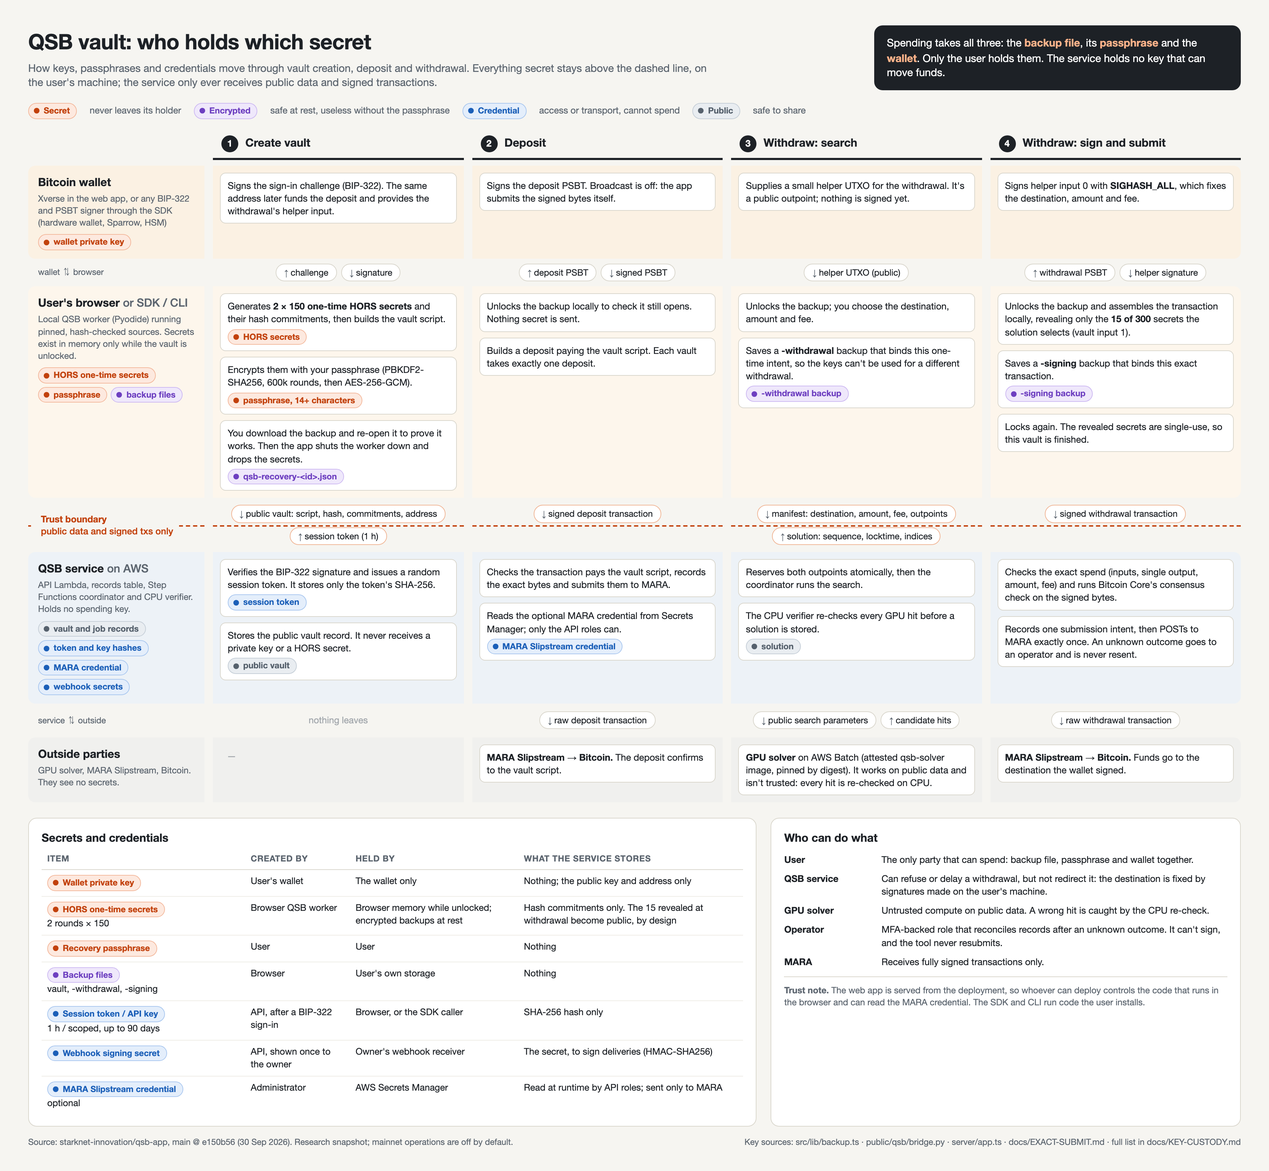
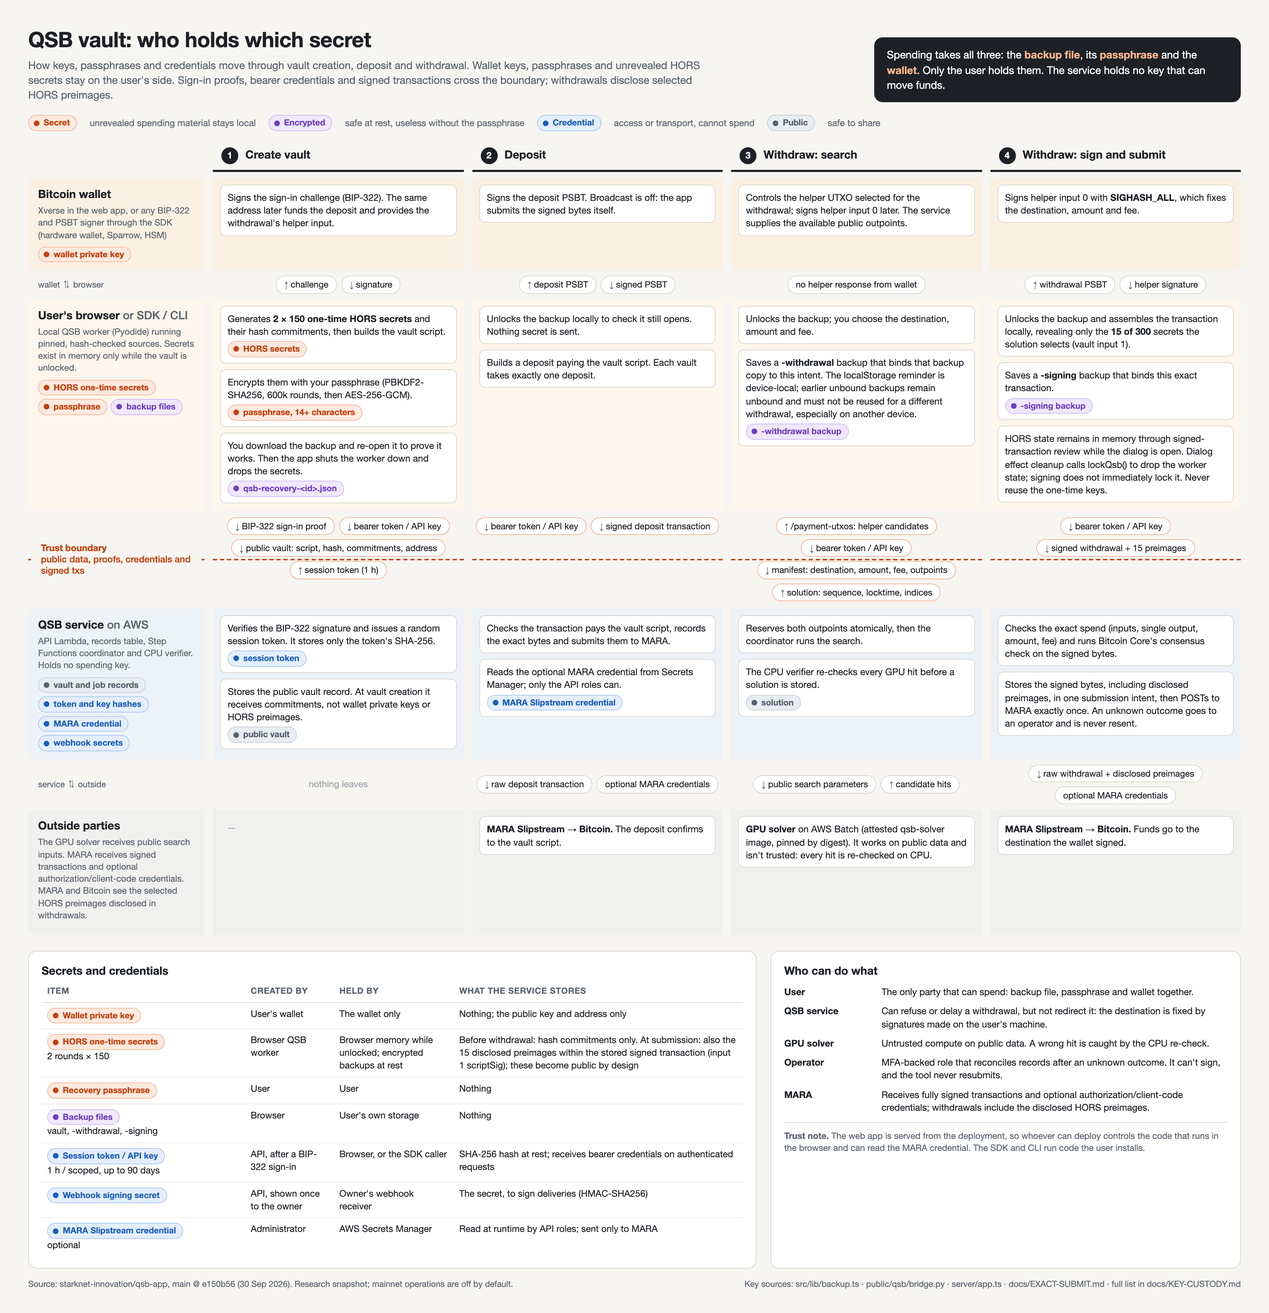
Correct custody boundaries and recovery lifecycle documentation

diff --git a/docs/key-custody.html b/docs/key-custody.html
@@ -128,13 +128,13 @@
 <header>
   <div>
     <h1>QSB vault: who holds which secret</h1>
-    <p class="sub">How keys, passphrases and credentials move through vault creation, deposit and withdrawal. Everything secret stays above the dashed line, on the user's machine; the service only ever receives public data and signed transactions.</p>
+    <p class="sub">How keys, passphrases and credentials move through vault creation, deposit and withdrawal. Wallet keys, passphrases and unrevealed HORS secrets stay on the user's side. Sign-in proofs, bearer credentials and signed transactions cross the boundary; withdrawals disclose selected HORS preimages.</p>
   </div>
   <div class="keymsg">Spending takes all three: the <b>backup file</b>, its <b>passphrase</b> and the <b>wallet</b>. Only the user holds them. The service holds no key that can move funds.</div>
 </header>
 
 <div class="legend">
-  <span class="chip secret">Secret</span><span>never leaves its holder</span>
+  <span class="chip secret">Secret</span><span>unrevealed spending material stays local</span>
   <span class="chip enc">Encrypted</span><span>safe at rest, useless without the passphrase</span>
   <span class="chip cred">Credential</span><span>access or transport, cannot spend</span>
   <span class="chip pub">Public</span><span>safe to share</span>
@@ -161,7 +161,7 @@
     <div class="step">Signs the deposit PSBT. Broadcast is off: the app submits the signed bytes itself.</div>
   </div>
   <div class="cell wallet">
-    <div class="step">Supplies a small helper UTXO for the withdrawal. It's a public outpoint; nothing is signed yet.</div>
+    <div class="step">Controls the helper UTXO selected for the withdrawal; signs helper input 0 later. The service supplies the available public outpoints.</div>
   </div>
   <div class="cell wallet lane-end">
     <div class="step">Signs helper input 0 with <b>SIGHASH_ALL</b>, which fixes the destination, amount and fee.</div>
@@ -171,7 +171,7 @@
   <div class="conn-label">wallet ⇅ browser</div>
   <div class="conn"><span class="pill"><span class="a">↑</span>challenge</span><span class="pill"><span class="a">↓</span>signature</span></div>
   <div class="conn"><span class="pill"><span class="a">↑</span>deposit PSBT</span><span class="pill"><span class="a">↓</span>signed PSBT</span></div>
-  <div class="conn"><span class="pill"><span class="a">↓</span>helper UTXO (public)</span></div>
+  <div class="conn"><span class="pill">no helper response from wallet</span></div>
   <div class="conn"><span class="pill"><span class="a">↑</span>withdrawal PSBT</span><span class="pill"><span class="a">↓</span>helper signature</span></div>
 
   <!-- BROWSER LANE -->
@@ -195,20 +195,20 @@
   </div>
   <div class="cell browser">
     <div class="step">Unlocks the backup; you choose the destination, amount and fee.</div>
-    <div class="step">Saves a <b>-withdrawal</b> backup that binds this one-time intent, so the keys can't be used for a different withdrawal.<br><span class="chip enc">-withdrawal backup</span></div>
+    <div class="step">Saves a <b>-withdrawal</b> backup that binds that backup copy to this intent. The localStorage reminder is device-local; earlier unbound backups remain unbound and must not be reused for a different withdrawal, especially on another device.<br><span class="chip enc">-withdrawal backup</span></div>
   </div>
   <div class="cell browser lane-end">
     <div class="step">Unlocks the backup and assembles the transaction locally, revealing only the <b>15 of 300</b> secrets the solution selects (vault input 1).</div>
     <div class="step">Saves a <b>-signing</b> backup that binds this exact transaction.<br><span class="chip enc">-signing backup</span></div>
-    <div class="step">Locks again. The revealed secrets are single-use, so this vault is finished.</div>
+    <div class="step">HORS state remains in memory through signed-transaction review while the dialog is open. Dialog effect cleanup calls lockQsb() to drop the worker state; signing does not immediately lock it. Never reuse the one-time keys.</div>
   </div>
 
   <!-- TRUST BOUNDARY -->
-  <div class="boundary-row" style="display:flex"><div class="boundary-label">Trust boundary<br><span style="font-weight:500">public data and signed txs only</span></div></div>
-  <div class="boundary-row"><div class="conn"><span class="pill"><span class="a">↓</span>public vault: script, hash, commitments, address</span><span class="pill"><span class="a">↑</span>session token (1 h)</span></div></div>
-  <div class="boundary-row"><div class="conn"><span class="pill"><span class="a">↓</span>signed deposit transaction</span></div></div>
-  <div class="boundary-row"><div class="conn"><span class="pill"><span class="a">↓</span>manifest: destination, amount, fee, outpoints</span><span class="pill"><span class="a">↑</span>solution: sequence, locktime, indices</span></div></div>
-  <div class="boundary-row"><div class="conn"><span class="pill"><span class="a">↓</span>signed withdrawal transaction</span></div></div>
+  <div class="boundary-row" style="display:flex"><div class="boundary-label">Trust boundary<br><span style="font-weight:500">public data, proofs, credentials and signed txs</span></div></div>
+  <div class="boundary-row"><div class="conn"><span class="pill"><span class="a">↓</span>BIP-322 sign-in proof</span><span class="pill"><span class="a">↓</span>bearer token / API key</span><span class="pill"><span class="a">↓</span>public vault: script, hash, commitments, address</span><span class="pill"><span class="a">↑</span>session token (1 h)</span></div></div>
+  <div class="boundary-row"><div class="conn"><span class="pill"><span class="a">↓</span>bearer token / API key</span><span class="pill"><span class="a">↓</span>signed deposit transaction</span></div></div>
+  <div class="boundary-row"><div class="conn"><span class="pill"><span class="a">↑</span>/payment-utxos: helper candidates</span><span class="pill"><span class="a">↓</span>bearer token / API key</span><span class="pill"><span class="a">↓</span>manifest: destination, amount, fee, outpoints</span><span class="pill"><span class="a">↑</span>solution: sequence, locktime, indices</span></div></div>
+  <div class="boundary-row"><div class="conn"><span class="pill"><span class="a">↓</span>bearer token / API key</span><span class="pill"><span class="a">↓</span>signed withdrawal + 15 preimages</span></div></div>
 
   <!-- SERVICE LANE -->
   <div class="lane-label service">
@@ -223,7 +223,7 @@
   </div>
   <div class="cell service">
     <div class="step">Verifies the BIP-322 signature and issues a random session token. It stores only the token's SHA-256.<br><span class="chip cred">session token</span></div>
-    <div class="step">Stores the public vault record. It never receives a private key or a HORS secret.<br><span class="chip pub">public vault</span></div>
+    <div class="step">Stores the public vault record. At vault creation it receives commitments, not wallet private keys or HORS preimages.<br><span class="chip pub">public vault</span></div>
   </div>
   <div class="cell service">
     <div class="step">Checks the transaction pays the vault script, records the exact bytes and submits them to MARA.</div>
@@ -235,20 +235,20 @@
   </div>
   <div class="cell service lane-end">
     <div class="step">Checks the exact spend (inputs, single output, amount, fee) and runs Bitcoin Core's consensus check on the signed bytes.</div>
-    <div class="step">Records one submission intent, then POSTs to MARA exactly once. An unknown outcome goes to an operator and is never resent.</div>
+    <div class="step">Stores the signed bytes, including disclosed preimages, in one submission intent, then POSTs to MARA exactly once. An unknown outcome goes to an operator and is never resent.</div>
   </div>
 
   <!-- service <-> external -->
   <div class="conn-label">service ⇅ outside</div>
   <div class="conn"><span class="empty">nothing leaves</span></div>
-  <div class="conn"><span class="pill"><span class="a">↓</span>raw deposit transaction</span></div>
+  <div class="conn"><span class="pill"><span class="a">↓</span>raw deposit transaction</span><span class="pill">optional MARA credentials</span></div>
   <div class="conn"><span class="pill"><span class="a">↓</span>public search parameters</span><span class="pill"><span class="a">↑</span>candidate hits</span></div>
-  <div class="conn"><span class="pill"><span class="a">↓</span>raw withdrawal transaction</span></div>
+  <div class="conn"><span class="pill"><span class="a">↓</span>raw withdrawal + disclosed preimages</span><span class="pill">optional MARA credentials</span></div>
 
   <!-- EXTERNAL LANE -->
   <div class="lane-label external">
     <h2>Outside parties</h2>
-    <p>GPU solver, MARA Slipstream, Bitcoin. They see no secrets.</p>
+    <p>The GPU solver receives public search inputs. MARA receives signed transactions and optional authorization/client-code credentials. MARA and Bitcoin see the selected HORS preimages disclosed in withdrawals.</p>
   </div>
   <div class="cell external"><div class="empty">—</div></div>
   <div class="cell external">
@@ -268,10 +268,10 @@
     <table>
       <tr><th>Item</th><th>Created by</th><th>Held by</th><th>What the service stores</th></tr>
       <tr><td><span class="chip secret">Wallet private key</span></td><td>User's wallet</td><td>The wallet only</td><td>Nothing; the public key and address only</td></tr>
-      <tr><td><span class="chip secret">HORS one-time secrets</span><br>2 rounds × 150</td><td>Browser QSB worker</td><td>Browser memory while unlocked; encrypted backups at rest</td><td>Hash commitments only. The 15 revealed at withdrawal become public, by design</td></tr>
+      <tr><td><span class="chip secret">HORS one-time secrets</span><br>2 rounds × 150</td><td>Browser QSB worker</td><td>Browser memory while unlocked; encrypted backups at rest</td><td>Before withdrawal: hash commitments only. At submission: also the 15 disclosed preimages within the stored signed transaction (input 1 scriptSig); these become public by design</td></tr>
       <tr><td><span class="chip secret">Recovery passphrase</span></td><td>User</td><td>User</td><td>Nothing</td></tr>
       <tr><td><span class="chip enc">Backup files</span><br>vault, -withdrawal, -signing</td><td>Browser</td><td>User's own storage</td><td>Nothing</td></tr>
-      <tr><td><span class="chip cred">Session token / API key</span><br>1 h / scoped, up to 90 days</td><td>API, after a BIP-322 sign-in</td><td>Browser, or the SDK caller</td><td>SHA-256 hash only</td></tr>
+      <tr><td><span class="chip cred">Session token / API key</span><br>1 h / scoped, up to 90 days</td><td>API, after a BIP-322 sign-in</td><td>Browser, or the SDK caller</td><td>SHA-256 hash at rest; receives bearer credentials on authenticated requests</td></tr>
       <tr><td><span class="chip cred">Webhook signing secret</span></td><td>API, shown once to the owner</td><td>Owner's webhook receiver</td><td>The secret, to sign deliveries (HMAC-SHA256)</td></tr>
       <tr><td><span class="chip cred">MARA Slipstream credential</span><br>optional</td><td>Administrator</td><td>AWS Secrets Manager</td><td>Read at runtime by API roles; sent only to MARA</td></tr>
     </table>
@@ -283,7 +283,7 @@
       <div><b>QSB service</b><span>Can refuse or delay a withdrawal, but not redirect it: the destination is fixed by signatures made on the user's machine.</span></div>
       <div><b>GPU solver</b><span>Untrusted compute on public data. A wrong hit is caught by the CPU re-check.</span></div>
       <div><b>Operator</b><span>MFA-backed role that reconciles records after an unknown outcome. It can't sign, and the tool never resubmits.</span></div>
-      <div><b>MARA</b><span>Receives fully signed transactions only.</span></div>
+      <div><b>MARA</b><span>Receives fully signed transactions and optional authorization/client-code credentials; withdrawals include the disclosed HORS preimages.</span></div>
     </div>
     <p class="trust"><b>Trust note.</b> The web app is served from the deployment, so whoever can deploy controls the code that runs in the browser and can read the MARA credential. The SDK and CLI run code the user installs.</p>
   </div>

diff --git a/docs/KEY-CUSTODY.md b/docs/KEY-CUSTODY.md
@@ -2,7 +2,7 @@
 
 Who holds each key, passphrase and credential through vault creation, deposit and withdrawal, and what the service receives. This page is the text version of the [diagram](key-custody.png); its source is [`key-custody.html`](key-custody.html).
 
-**Spending takes all three: the backup file, its passphrase and the wallet. Only the user holds them. The service holds no key that can move funds.** Everything secret stays on the user's machine. The service only receives public data and signed transactions.
+**Spending takes all three: the backup file, its passphrase and the wallet. Only the user holds them. The service holds no key that can move funds.** Wallet private keys, recovery passphrases and unrevealed HORS secrets stay on the user's side. The service also receives the BIP-322 sign-in proof and bearer session tokens or API keys. Signed withdrawals intentionally disclose selected HORS preimages.
 
 ![Key custody diagram: the same stages, holders and tables as the text on this page.](key-custody.png)
 
@@ -11,7 +11,7 @@ Who holds each key, passphrase and credential through vault creation, deposit an
 - **Bitcoin wallet**: Xverse in the web app, or any BIP-322 and PSBT signer through the SDK (hardware wallet, Sparrow, HSM). Holds the wallet private key.
 - **User's browser, or the SDK / CLI**: runs the local QSB worker (Pyodide) from pinned, hash-checked sources. Holds the HORS one-time secrets (in memory only while the vault is unlocked), the passphrase and the backup files.
 - **QSB service on AWS**: API Lambda, records table, Step Functions coordinator and CPU verifier. Holds vault and job records, session and API key hashes and webhook secrets, and reads the MARA credential. Holds no spending key.
-- **Outside parties**: GPU solver, MARA Slipstream, Bitcoin. They see no secrets.
+- **Outside parties**: The GPU solver receives public search inputs. MARA receives signed transactions and optional authorization/client-code credentials. MARA and Bitcoin see the selected HORS preimages disclosed in withdrawals.
 
 ## 1. Create vault
 
@@ -20,8 +20,8 @@ Who holds each key, passphrase and credential through vault creation, deposit an
 | Wallet | Signs the sign-in challenge (BIP-322). The same address later funds the deposit and provides the withdrawal's helper input. |
 | Wallet ↔ browser | The challenge goes to the wallet; the signature comes back. |
 | Browser | Generates 2 × 150 one-time HORS secrets and their hash commitments, then builds the vault script. Encrypts them with the passphrase (14+ characters; PBKDF2-SHA256 with 600,000 rounds, then AES-256-GCM). The user downloads the backup, `qsb-recovery-<id>.json`, and re-opens it to prove it works. Then the app shuts the worker down and drops the secrets. |
-| Crosses to the service | The public vault: script, script hash, HORS commitments and payment address. The service returns a session token that lasts 1 hour. |
-| Service | Verifies the BIP-322 signature and issues a random session token, storing only its SHA-256. Stores the public vault record. It never receives a private key or a HORS secret. |
+| Crosses to the service | The BIP-322 sign-in proof, then the public vault (script, script hash, HORS commitments and payment address). The service returns a 1-hour session token. Authenticated requests send that bearer token, or a scoped API key. |
+| Service | Verifies the BIP-322 signature and issues a random session token, storing only its SHA-256. Stores the public vault record. At vault creation it receives commitments, not wallet private keys or HORS preimages. |
 | Outside parties | Nothing leaves the service. |
 
 ## 2. Deposit
@@ -31,18 +31,18 @@ Who holds each key, passphrase and credential through vault creation, deposit an
 | Wallet | Signs the deposit PSBT. Broadcast is off: the app submits the signed bytes itself. |
 | Wallet ↔ browser | The deposit PSBT goes to the wallet; the signed PSBT comes back. |
 | Browser | Unlocks the backup locally to check it still opens; nothing secret is sent. Builds a deposit paying the vault script. Each vault takes exactly one deposit. |
-| Crosses to the service | The signed deposit transaction. |
+| Crosses to the service | The signed deposit transaction plus a bearer session token or API key. |
 | Service | Checks the transaction pays the vault script, records the exact bytes and submits them to MARA. Reads the optional MARA credential from Secrets Manager; only the API roles can. |
-| Outside parties | MARA Slipstream relays the raw transaction to Bitcoin, and the deposit confirms to the vault script. |
+| Outside parties | MARA receives the raw transaction and optional authorization/client-code credentials; it relays the transaction (not the credentials) to Bitcoin, and the deposit confirms to the vault script. |
 
 ## 3. Withdraw: search
 
 | Holder | What happens |
 | --- | --- |
-| Wallet | Supplies a small helper UTXO for the withdrawal. It's a public outpoint; nothing is signed yet. |
-| Wallet ↔ browser | The helper UTXO (public) comes back from the wallet. |
-| Browser | Unlocks the backup; the user chooses the destination, amount and fee. Saves a `-withdrawal` backup that binds this one-time intent, so the keys can't be used for a different withdrawal. |
-| Crosses to the service | The withdrawal manifest: destination, amount, fee, and the funding and helper outpoints. The service later returns the solution: sequence, locktime and the selected indices. |
+| Wallet | Controls the helper UTXO selected for the withdrawal; signs helper input 0 later. The service supplies the available public outpoints. |
+| Wallet ↔ browser | No helper UTXO response comes from Xverse here. The browser gets candidates from the authenticated service's /payment-utxos endpoint. |
+| Browser | Unlocks the backup; the user chooses the destination, amount and fee. Saves a `-withdrawal` backup that binds that backup copy to this intent. The localStorage reminder is device-local; earlier unbound backups remain unbound and must not be reused for a different withdrawal, especially on another device. |
+| Crosses to the service | A bearer session token or API key and the withdrawal manifest: destination, amount, fee, and the funding and helper outpoints. The authenticated service supplies helper candidates through /payment-utxos. The service later returns the solution: sequence, locktime and the selected indices. |
 | Service | Reserves both outpoints atomically, then the coordinator runs the search. The CPU verifier re-checks every GPU hit before a solution is stored. |
 | Outside parties | The GPU solver on AWS Batch (attested qsb-solver image, pinned by digest) receives public search parameters and returns candidate hits. It isn't trusted: every hit is re-checked on CPU. |
 
@@ -52,20 +52,20 @@ Who holds each key, passphrase and credential through vault creation, deposit an
 | --- | --- |
 | Wallet | Signs helper input 0 with SIGHASH_ALL, which fixes the destination, amount and fee. |
 | Wallet ↔ browser | The withdrawal PSBT goes to the wallet; the helper signature comes back. |
-| Browser | Unlocks the backup and assembles the transaction locally, revealing only the 15 of 300 secrets the solution selects (vault input 1). Saves a `-signing` backup that binds this exact transaction. Locks again. The revealed secrets are single-use, so this vault is finished. |
-| Crosses to the service | The signed withdrawal transaction. |
-| Service | Checks the exact spend (inputs, single output, amount, fee) and runs Bitcoin Core's consensus check on the signed bytes. Records one submission intent, then POSTs to MARA exactly once. An unknown outcome goes to an operator and is never resent. |
-| Outside parties | MARA Slipstream relays the raw transaction to Bitcoin, and the funds go to the destination the wallet signed. |
+| Browser | Unlocks the backup and assembles the transaction locally, revealing only the 15 of 300 secrets the solution selects (vault input 1). Saves a `-signing` backup that binds this exact transaction. HORS state remains in memory through signed-transaction review while the dialog is open. Dialog effect cleanup calls lockQsb() to drop the worker state; signing does not immediately lock it. Never reuse the one-time keys. |
+| Crosses to the service | The signed withdrawal transaction, including 15 disclosed HORS preimages in input 1, plus a bearer session token or API key. |
+| Service | Checks the exact spend (inputs, single output, amount, fee) and runs Bitcoin Core's consensus check on the signed bytes. Stores the signed bytes, including disclosed HORS preimages, in one submission intent, then POSTs to MARA exactly once. An unknown outcome goes to an operator and is never resent. |
+| Outside parties | MARA receives the raw transaction and optional authorization/client-code credentials; it relays the transaction (not the credentials) to Bitcoin, and the funds go to the destination the wallet signed. |
 
 ## Secrets and credentials
 
 | Item | Created by | Held by | What the service stores |
 | --- | --- | --- | --- |
 | Wallet private key | User's wallet | The wallet only | Nothing; the public key and address only |
-| HORS one-time secrets, 2 rounds × 150 | Browser QSB worker | Browser memory while unlocked; encrypted backups at rest | Hash commitments only. The 15 revealed at withdrawal become public, by design |
+| HORS one-time secrets, 2 rounds × 150 | Browser QSB worker | Browser memory while unlocked; encrypted backups at rest | Before withdrawal: hash commitments only. At submission: also the 15 disclosed preimages within the stored signed transaction (input 1 scriptSig); these become public by design |
 | Recovery passphrase | User | User | Nothing |
 | Backup files: vault, `-withdrawal`, `-signing` | Browser | User's own storage | Nothing |
-| Session token (1 hour) / API key (scoped, up to 90 days) | API, after a BIP-322 sign-in | Browser, or the SDK caller | SHA-256 hash only |
+| Session token (1 hour) / API key (scoped, up to 90 days) | API, after a BIP-322 sign-in | Browser, or the SDK caller | SHA-256 hash at rest; receives the bearer credential on authenticated requests |
 | Webhook signing secret | API, shown once to the owner | Owner's webhook receiver | The secret, to sign deliveries (HMAC-SHA256) |
 | MARA Slipstream credential (optional) | Administrator | AWS Secrets Manager | Read at runtime by API roles; sent only to MARA |
 
@@ -75,10 +75,10 @@ Who holds each key, passphrase and credential through vault creation, deposit an
 - **QSB service**: can refuse or delay a withdrawal, but not redirect it: the destination is fixed by signatures made on the user's machine.
 - **GPU solver**: untrusted compute on public data. A wrong hit is caught by the CPU re-check.
 - **Operator**: an MFA-backed role that reconciles records after an unknown outcome. It can't sign, and the tool never resubmits.
-- **MARA**: receives fully signed transactions only.
+- **MARA**: receives fully signed transactions and optional authorization/client-code credentials; withdrawals include the disclosed HORS preimages.
 
 **Trust note.** The web app is served from the deployment, so whoever can deploy controls the code that runs in the browser and can read the MARA credential. The SDK and CLI run code the user installs.
 
 ## Sources
 
-Written against `main` at `e150b56` (30 September 2026): `src/lib/backup.ts`, `public/qsb/bridge.py`, `public/qsb/qsb_pipeline.py`, `src/lib/wallet.ts`, `src/mainnet/localSignature.ts`, `server/app.ts`, `server/scoped-keys.ts`, `server/webhooks.ts`, `terraform/variables.tf` and [EXACT-SUBMIT.md](EXACT-SUBMIT.md). Keep this page, `key-custody.html` and `key-custody.png` in step; see "Docs" in `AGENTS.md`.
+Written against `main` at `e150b56` (30 September 2026): `src/lib/backup.ts`, `public/qsb/bridge.py`, `public/qsb/qsb_pipeline.py`, `src/lib/wallet.ts`, `src/mainnet/localSignature.ts`, `server/app.ts`, `server/scoped-keys.ts`, `server/webhooks.ts`, `terraform/variables.tf`, `src/TransactionDialog.tsx`, `server/providers.ts`, `server/submit-exact.ts` and [EXACT-SUBMIT.md](EXACT-SUBMIT.md). Keep this page, `key-custody.html` and `key-custody.png` in step; see "Docs" in `AGENTS.md`.
